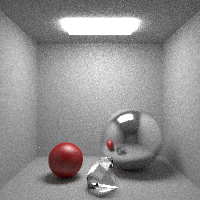
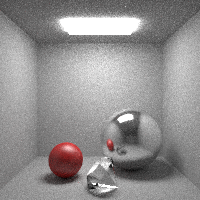
fix sRGB creation!

diff --git a/render3d/light.go b/render3d/light.go
@@ -48,7 +48,7 @@ func gammaExpand(u float64) float64 {
 	if u <= 0.04045 {
 		return u / 12.92
 	} else {
-		return math.Pow((u-0.055)/1.055, 2.4)
+		return math.Pow((u+0.055)/1.055, 2.4)
 	}
 }
 
